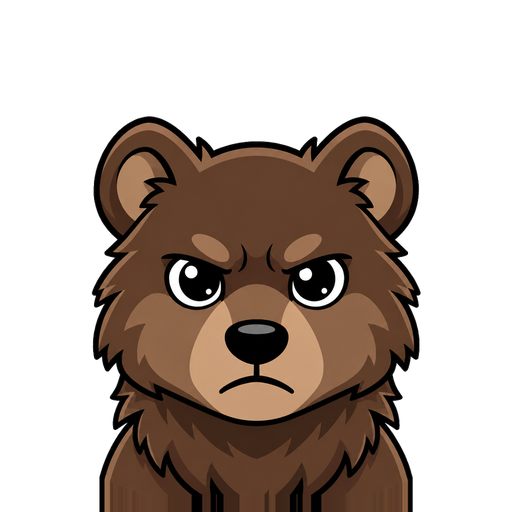
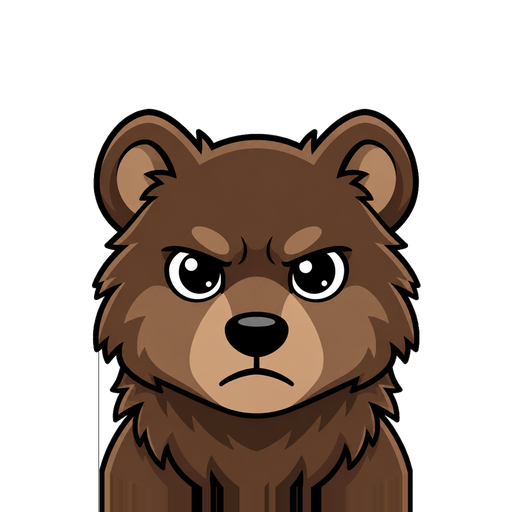
➕Added the capybara and a new fox drawn from fox2, both placed on the clothing line ➕Added the falcon back to the bundled set ⭐Updated the bull asset name to animal_bull ⭐Updated the duck and bear positions so that their muzzles clear the collars ⭐Updated the package version to 0.2.5 with a changelo

Changed region(s): [[0.1562, 0.1875, 0.8438, 1.0]]

diff --git a/lib/src/avatar_layers.dart b/lib/src/avatar_layers.dart
@@ -35,7 +35,8 @@ class AvatarLayers {
     'assets/animal/animal_beaver.png',
     'assets/animal/animal_bear.png',
     'assets/animal/animal_bird.png',
-    'assets/animal/animal_bull_brown_fur.png',
+    'assets/animal/animal_bull.png',
+    'assets/animal/animal_capybara.png',
     'assets/animal/animal_cat.png',
     'assets/animal/animal_cat_shorthair.png',
     'assets/animal/animal_cat_vampire.png',
@@ -44,6 +45,7 @@ class AvatarLayers {
     'assets/animal/animal_dog.png',
     'assets/animal/animal_dog_labrador.png',
     'assets/animal/animal_duck.png',
+    'assets/animal/animal_falcon.png',
     'assets/animal/animal_eagle.png',
     'assets/animal/animal_fox.png',
     'assets/animal/animal_hedgehog.png',

diff --git a/CHANGELOG.md b/CHANGELOG.md
@@ -1,5 +1,10 @@
 # Changelog
 
+## 0.2.5
+
+- Added the capybara and a new fox; re-added the falcon; removed the dimpled fox.
+- Renamed the bull asset to `animal_bull`; nudged the duck and bear up.
+
 ## 0.2.4
 
 - Removed the falcon from the bundled animal set.
